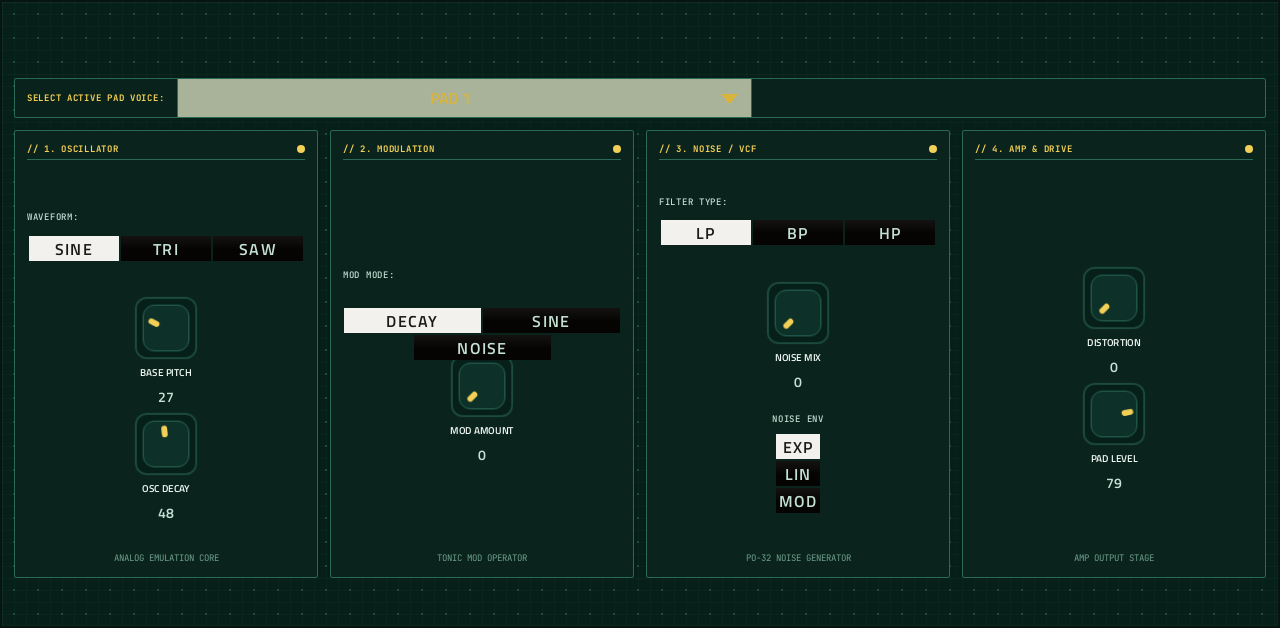
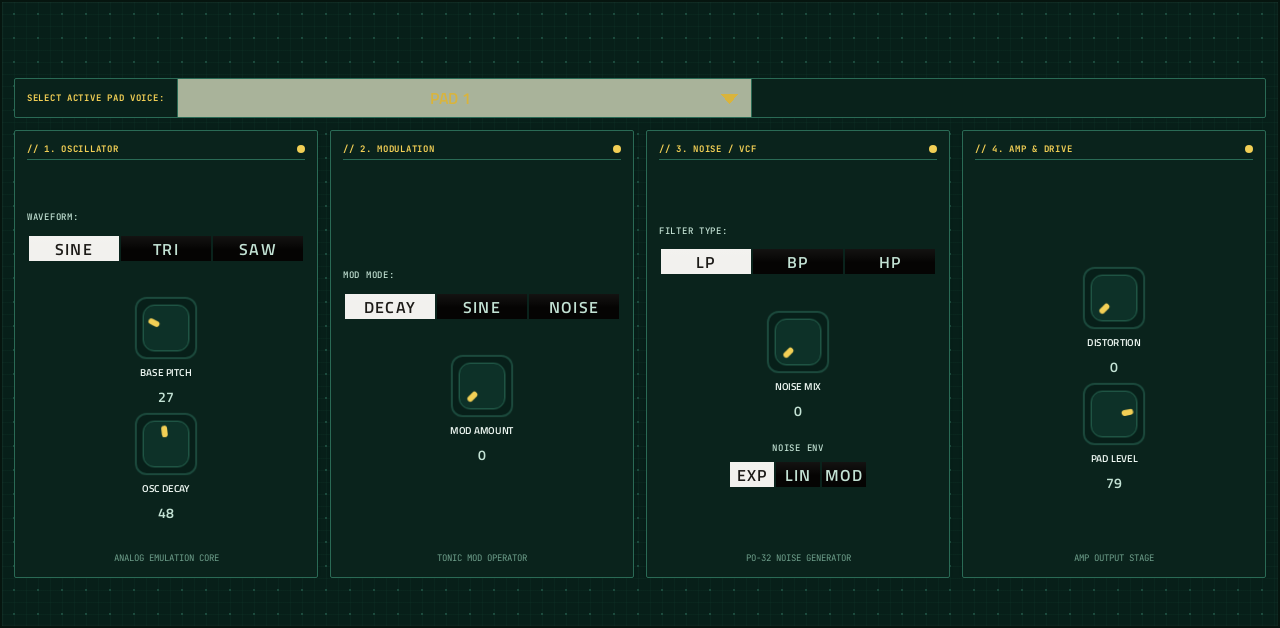
Libpo32: design QA -- a Q-Link column per panel, RANDOM KIT in the KIT panel, EDIT tidied

Changed region(s): [[0.5, 0.3025, 0.75, 0.8169], [0.25, 0.4538, 0.5, 0.5748]]

diff --git a/dev-tools/stitch/convert.py b/dev-tools/stitch/convert.py
@@ -270,7 +270,7 @@ MAPS = {
         "get": {"kit": "kit_name"},
         "tpl": {
             "enum": '<div class="flex flex-col gap-2 items-center mt-8"><span class="text-label-sm text-[#c3e2d4]">{label}</span>'
-                    '<div class="aug-enum grid grid-cols-1 gap-1" data-param="{key}">{opts}</div></div>',
+                    '<div class="aug-enum grid grid-cols-3 gap-1" data-param="{key}">{opts}</div></div>',
             "opt_enum": '<button class="py-1 px-3 text-[10px] font-bold rounded bg-[#071f19] text-[#c3e2d4] border '
                         'border-[#1c4a3d]">{opt}</button>',
         },
@@ -287,7 +287,22 @@ MAPS = {
             {"sel": "#view-edit div.flex-col:has(> .knob-pot[data-param=x_drop])", "remove": True},
             {"sel": "#view-edit div.flex-col:has(> .knob-pot[data-param=x_cutoff])", "where": "replace", "html": "@enum(inst_noise_env)"},
             {"sel": "#view-tune .knob-pot", "nth": ["v%02d_%s" % (v, k) for v in range(1, 9) for k in ("freq", "dcy")]},
+            # design QA 2026-10-03: RANDOM KIT (a utility button) beside the kit display, in the KIT panel and off the
+            # Q-Links; EDIT's MOD MODE on one row (its third option sat on MOD AMOUNT)
+            {"sel": "#view-kit div.grid-cols-2 > div:has(> .po-lcd)", "attr": {"style": "display: grid; grid-template-columns: "
+             "1fr 150px; grid-template-rows: auto 1fr; column-gap: 16px; row-gap: 8px; align-items: center"}},
+            {"sel": "div:has(> .po-lcd) > div.justify-between", "attr": {"style": "grid-column: 1 / -1"}},
+            {"sel": "div.flex-col:has(> button[onclick^=randomizeAllKit])", "move": "div:has(> .po-lcd)"},
+            {"sel": "#view-edit div.grid[data-param=inst_mod_mode]", "attr": {"class": "grid grid-cols-3 gap-1"}},
         ],
+        # design QA 2026-10-03: a Q-Link column per panel (KIT: MASTER | PADS 1-4 | PADS 5-8 | KIT, the kit last as a
+        # preset; EDIT: OSCILLATOR | MODULATION | NOISE | AMP, EDIT PAD touch only); TUNE keeps two pads a column
+        "qlinks": {
+            0: ["level", "decay", "-", "-", "v01_lvl", "v02_lvl", "v03_lvl", "v04_lvl",
+                "v05_lvl", "v06_lvl", "v07_lvl", "v08_lvl", "kit", "-", "-", "-"],
+            1: ["inst_wave", "inst_freq", "inst_dcy", "-", "inst_mod_mode", "inst_mod_amt", "-", "-",
+                "inst_noise_filt", "inst_noise", "inst_noise_env", "-", "inst_dist", "inst_level", "-", "-"],
+        },
         "map": {"master-lvl": "level", "decay-scale": "decay", **{"fader-%d" % v: "v%02d_lvl" % v for v in range(1, 9)}},
         "names": {"inst_level": "PAD LEVEL", "inst_dist": "DISTORTION"},
     },

diff --git a/schwung/instruments/libpo32/DESIGN-QA.md b/schwung/instruments/libpo32/DESIGN-QA.md
@@ -1,0 +1,37 @@
+# Design QA: Libpo32
+
+Status: done offline (2026-10-03), **waiting for the device check**.
+
+## Owner's notes
+None specific; checked against the batch rules (one Q-Link column per panel, as Moog; outlines that frame one
+panel; utility buttons in their own place and off the Q-Links).
+
+## What changed
+Q-Link columns before → after ("-" = an empty slot):
+
+| Page | before | after |
+|---|---|---|
+| KIT | 1 KIT, LEVEL, DECAY SCALE, RANDOM KIT  ·  2 01: KICK, 02: SNARE, 03: CLAVE, 04: TOM  ·  3 05: HAT CL, 06: HAT OP, 07: CYMB, 08: NOISE | 1 LEVEL, DECAY SCALE  ·  2 01: KICK, 02: SNARE, 03: CLAVE, 04: TOM  ·  3 05: HAT CL, 06: HAT OP, 07: CYMB, 08: NOISE  ·  4 KIT |
+| EDIT | 1 EDIT PAD, WAVE, BASE PITCH, OSC DECAY  ·  2 MOD MODE, MOD AMOUNT, NOISE FILTER, NOISE MIX  ·  3 NOISE ENV, DISTORTION, PAD LEVEL | 1 WAVE, BASE PITCH, OSC DECAY  ·  2 MOD MODE, MOD AMOUNT  ·  3 NOISE FILTER, NOISE MIX, NOISE ENV  ·  4 DISTORTION, PAD LEVEL |
+| TUNE | 1 PAD1 PITCH, PAD1 DECAY, PAD2 PITCH, PAD2 DECAY  ·  2 PAD3 PITCH, PAD3 DECAY, PAD4 PITCH, PAD4 DECAY  ·  3 PAD5 PITCH, PAD5 DECAY, PAD6 PITCH, PAD6 DECAY  ·  4 PAD7 PITCH, PAD7 DECAY, PAD8 PITCH, PAD8 DECAY | 1 PAD1 PITCH, PAD1 DECAY, PAD2 PITCH, PAD2 DECAY  ·  2 PAD3 PITCH, PAD3 DECAY, PAD4 PITCH, PAD4 DECAY  ·  3 PAD5 PITCH, PAD5 DECAY, PAD6 PITCH, PAD6 DECAY  ·  4 PAD7 PITCH, PAD7 DECAY, PAD8 PITCH, PAD8 DECAY (unchanged) |
+
+- **KIT**: MASTER (LEVEL, DECAY SCALE) | PADS 1-4 | PADS 5-8 | KIT (the kit last, as a preset). RANDOM KIT is a
+  utility button: it moved into the KIT panel beside the kit display, and off the Q-Links (turning a knob fired it).
+- **EDIT**: OSCILLATOR | MODULATION | NOISE / VCF | AMP & DRIVE, a column each. The EDIT PAD selector (the bar across
+  the top) is touch only: as a Q-Link its column would have taken in the whole page. MOD MODE's three options are
+  on one row now (the third sat on top of MOD AMOUNT), and NOISE ENV's are a row too.
+- **TUNE**: unchanged: eight narrow pad strips, so each column is two pads (pitch and decay of each); the outlines
+  don't overlap.
+- The slider strips were rebuilt with the slider fix (the "silly" slider animation seen on Braids).
+
+Made in the design (convert.py MAPS `augment`, with the new `move` op, and `qlinks`), so a rerun keeps it.
+
+## Presets
+Its kits are in MPC's PRESET menu (unchanged).
+
+## For the owner
+- EDIT PAD has no Q-Link; touch it to pick the pad to edit.
+
+## Checked
+Offline test PASSED; check_skin OK (two small touch overlaps between EDIT's stacked knobs, as before);
+no Q-Link outlines overlap on any page (qlink_overlay.py).

diff --git a/README.md b/README.md
@@ -90,7 +90,7 @@ The first install of a plugin restarts MPC once (it asks first; `MPC.settings` i
 
 - All 36 build and pass the offline test: an x86 build under AddressSanitizer/UBSan that checks every parameter, presets, saving and restoring, Q-Link behaviour, notes to audio, and a stress test that hammers the plugin from two threads as MPC does.
 - All 36 run on an MPC Live II (MPC OS 3.9.1) with their Stitch screens (installed 2026-10-03). Moog's screen has been checked on the device; the others are going through an on-device design QA now: see the **Design QA** column above.
-- Design QA, first pass (offline, waiting for the device check): 303 (✅), Aphex, Braids, Chordism, Denis, Elements, Fizzik, Hank, Hera, Hush One, MonkSynth, Mono Voice, Mr Hyde, Noisemaker, NuSaw, OB-Xd, Plaits, Rings, Tablor, Wurl: one Q-Link column per panel, as Moog. Each has a `DESIGN-QA.md` with what changed.
+- Design QA, first pass (offline, waiting for the device check): 303 (✅), Aphex, Braids, Chordism, Denis, Elements, Fizzik, Hank, Hera, Hush One, MonkSynth, Mono Voice, Mr Hyde, Noisemaker, NuSaw, OB-Xd, Plaits, Rings, Tablor, Wurl, Libpo32: one Q-Link column per panel, as Moog. Each has a `DESIGN-QA.md` with what changed.
 - Presets: every instrument that has presets lists them in MPC's own **PRESET menu** in the plugin header (also on the arrangement screen); checked on the Live II. OB-Xd and Noisemaker get a BANK selector for banks you add, Hush One reads TAL-BassLine-101 presets you add, and the menu follows what's loaded ([docs/presets-and-libraries.md](docs/presets-and-libraries.md)).
 - Every screen is checked offline before it ships: each control's binding, the Q-Link layout, the touch areas (`dev-tools/stitch/check_skin.py`) and the Q-Link column outlines MPC highlights (`dev-tools/stitch/qlink_overlay.py`).
 - Not yet tried on a device: the sequencers driving other tracks through their own MIDI port on a stock MPC (the mechanism works on a Force), and the three audio effects (whether MPC lists third-party effects at all).

diff --git a/schwung/instruments/libpo32/README.md b/schwung/instruments/libpo32/README.md
@@ -26,13 +26,13 @@ Screenshots are rendered from the built skin with the engine's real values right
 
 <img src="screenshots/page_0.png" width="760" alt="Libpo32, page KIT">
 
-Q-Link columns: **1** KIT, LEVEL, DECAY SCALE, RANDOM KIT  ·  **2** 01: KICK, 02: SNARE, 03: CLAVE, 04: TOM  ·  **3** 05: HAT CL, 06: HAT OP, 07: CYMB, 08: NOISE
+Q-Link columns: **1** LEVEL, DECAY SCALE  ·  **2** 01: KICK, 02: SNARE, 03: CLAVE, 04: TOM  ·  **3** 05: HAT CL, 06: HAT OP, 07: CYMB, 08: NOISE  ·  **4** KIT
 
 ### 2. EDIT
 
 <img src="screenshots/page_1.png" width="760" alt="Libpo32, page EDIT">
 
-Q-Link columns: **1** EDIT PAD, WAVE, BASE PITCH, OSC DECAY  ·  **2** MOD MODE, MOD AMOUNT, NOISE FILTER, NOISE MIX  ·  **3** NOISE ENV, DISTORTION, PAD LEVEL
+Q-Link columns: **1** WAVE, BASE PITCH, OSC DECAY  ·  **2** MOD MODE, MOD AMOUNT  ·  **3** NOISE FILTER, NOISE MIX, NOISE ENV  ·  **4** DISTORTION, PAD LEVEL
 
 ### 3. TUNE
 
